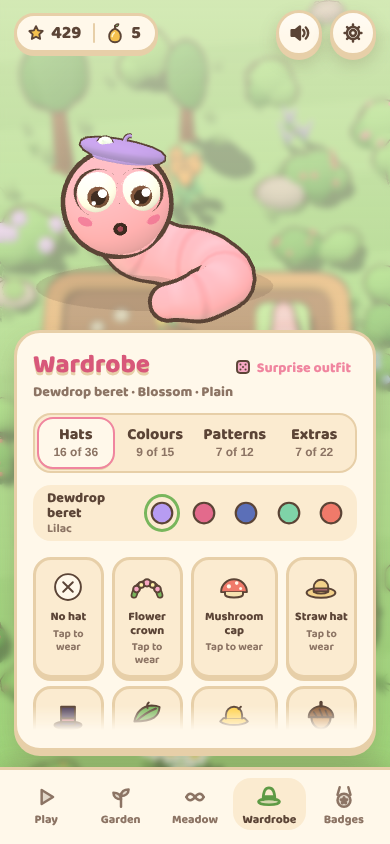
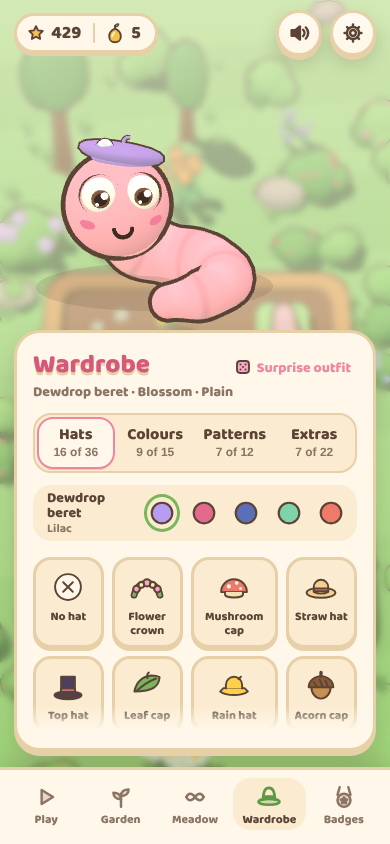
Wardrobe, hint dialog and settings tidy-up
- Wardrobe tiles drop the Tap to wear / Wearing line; locked items keep their hint
- The hint seeds explainer's Got it is the green primary button
- Settings drops the stats strip (the stars pill has its own dialog now)
- What's new gets its own settings card

Claude-Session: https://claude.ai/code/session_018b3cP1De1FMBieJja8GZr1

Changed region(s): [[0.0615, 0.7393, 0.9231, 0.8626], [0.1538, 0.154, 0.4308, 0.3081]]

diff --git a/src/shell.html b/src/shell.html
@@ -575,7 +575,7 @@ body.photo .wsay{display:none}
 /* -- Meadow: endless setup -- */
 .m-stats{display:grid;grid-template-columns:repeat(3,1fr);gap:8px}
 .m-stat{display:flex;flex-direction:column;align-items:center;gap:2px;padding:9px 4px 8px;border-radius:18px;background:var(--paper-2);border:2px solid var(--edge)}
-.m-stat .ic,.set-hero .ic{width:36px;height:36px;border-radius:14px;margin-bottom:2px}.m-stat .ic svg,.set-hero .ic svg{width:24px;height:24px}
+.m-stat .ic{width:36px;height:36px;border-radius:14px;margin-bottom:2px}.m-stat .ic svg{width:24px;height:24px}
 .m-stat b{font:800 21px/1.1 var(--fd)}
 .m-stat small{font-size:11px;font-weight:800;color:var(--ink-soft);text-transform:uppercase;letter-spacing:.04em}
 .m-diffs{display:grid;grid-template-columns:repeat(3,1fr);gap:8px}
@@ -667,9 +667,6 @@ body.photo .wsay{display:none}
 /* Settings: one scrolling page of cards, each with a sticker heading */
 .settings{max-height:min(760px,calc(100% - 24px));padding-bottom:6px}
 .set-scroll{flex:1;min-height:0;display:flex;flex-direction:column;gap:12px;margin:0 -16px;padding:2px 16px 14px}
-.set-hero{flex:none;display:grid;grid-template-columns:repeat(3,1fr);gap:8px}
-.set-hero>span{display:flex;flex-direction:column;align-items:center;gap:3px;padding:9px 4px 8px;border-radius:18px;background:var(--paper-2);border:2px solid var(--edge);font:800 21px/1 var(--fd);color:var(--ink)}
-.set-hero>span>small{font:800 11px/1 var(--fb);color:var(--ink-soft);text-transform:uppercase;letter-spacing:.04em}
 .set-card{flex:none;display:flex;flex-direction:column;gap:12px;padding:12px 14px 14px;border-radius:22px;background:var(--paper-2);border:3px solid var(--edge)}
 .set-h{display:flex;align-items:center;gap:10px;margin:0;font:800 18px/1.1 var(--fd);color:var(--ink)}
 .set-h [data-art]{width:38px;height:38px;border-radius:14px;place-items:center;background:var(--sticker);border:2px solid var(--sticker-edge);--art-halo:none;vertical-align:0}
@@ -946,7 +943,6 @@ body.big-text .hud-stats{zoom:.9}
 <div class="ov" id="setOv"><div role="dialog" aria-modal="true" aria-labelledby="setTitle" class="dialog card sheet settings">
   <div class="set-head"><h2 id="setTitle">Settings</h2><button class="icon-btn" id="setClose" aria-label="Close"><svg class="ui-ic" width="16" height="16" viewBox="0 0 24 24" fill="none" stroke="currentColor" stroke-width="3.2" stroke-linecap="round" stroke-linejoin="round" aria-hidden="true"><path d="M6.5 6.5l11 11M17.5 6.5l-11 11"/></svg></button></div>
   <div class="set-scroll fade-scroll" id="setScroll">
-    <div class="set-hero" id="setHero"></div>
     <section class="set-card" aria-labelledby="hSound">
       <h3 class="set-h" id="hSound"><span data-art="sound" data-size="26"></span>Sound</h3>
       <div class="set-row"><span>Music</span><button class="switch" id="setMusic" role="switch" aria-checked="true" aria-label="Music"><i></i></button></div>
@@ -992,12 +988,15 @@ body.big-text .hud-stats{zoom:.9}
       <textarea id="saveCode" rows="3" hidden spellcheck="false" autocomplete="off" aria-label="Save code" placeholder="Paste a save code here"></textarea>
       <div class="row"><button class="btn" id="saveCopy">Copy code</button><button class="btn" id="saveLoad">Restore</button></div>
     </section>
+    <section class="set-card" aria-labelledby="hNews">
+      <h3 class="set-h" id="hNews"><span data-art="news" data-size="26"></span>What's new</h3>
+      <details class="news-more"><summary>Every update<span class="chev" aria-hidden="true"><svg class="ui-ic" width="18" height="18" viewBox="0 0 24 24" fill="none" stroke="currentColor" stroke-width="3" stroke-linecap="round" stroke-linejoin="round" aria-hidden="true"><path d="M9.5 5.5L16 12l-6.5 6.5"/></svg></span></summary><div class="news-log" id="newsLog"></div></details>
+    </section>
     <section class="set-card" aria-labelledby="hAbout">
       <h3 class="set-h" id="hAbout"><span data-art="info" data-size="26"></span>About Squirm</h3>
       <p class="set-note">A cozy garden puzzle about a worm who just wants to get home. It plays offline and keeps your progress on this device.</p>
       <div class="set-row" id="statsRow" hidden><span>Share anonymous stats</span><button class="switch" id="setStats" role="switch" aria-checked="true" aria-label="Share anonymous stats"><i></i></button></div>
       <p class="set-note small" id="statsNote" hidden>Only simple counts, like how many gardens grew today, which patches got finished or left halfway and how often hints help, so we know what to make next. No cookies, nothing about you.</p>
-      <details class="news-more"><summary>What's new<span class="chev" aria-hidden="true"><svg class="ui-ic" width="18" height="18" viewBox="0 0 24 24" fill="none" stroke="currentColor" stroke-width="3" stroke-linecap="round" stroke-linejoin="round" aria-hidden="true"><path d="M9.5 5.5L16 12l-6.5 6.5"/></svg></span></summary><div class="news-log" id="newsLog"></div></details>
       <p class="set-note small">Made with three.js. Font: Baloo 2.</p>
       <p class="version">__BUILD__</p>
     </section>

diff --git a/src/game/play/hints.js b/src/game/play/hints.js
@@ -11,7 +11,7 @@ function renderSeeds(){ const b=$('hintBtn'), free=hintFree(), n=progress.seeds;
 // the pouch is empty: offer the daily (unless it's done or being played) and the meadow; this patch is saved meanwhile
 function openSeeds(){ const daily=!progress.daily.results[todayKey()]&&!(L&&L.daily);
   $('seedTitle').textContent='Out of hint seeds'; $('seedText').textContent='Garden hints use hint seeds. Grow more in today\'s patch or out in the meadow. This patch will wait for you.';
-  $('seedHow').hidden=true; $('seedKeep').textContent='Keep trying'; $('seedMeadow').hidden=false;
+  $('seedHow').hidden=true; $('seedKeep').textContent='Keep trying'; $('seedKeep').classList.remove('primary'); $('seedMeadow').hidden=false;
   $('seedDaily').hidden=!daily; $('seedDaily').innerHTML=`Today's patch ${seedChip(2)}`; $('seedMeadow').innerHTML=`A meadow patch ${seedChip(1)}`;
   $('seedMeadow').classList.toggle('primary',!daily); sfx('stuck'); show('seedOv'); pushLayer('seeds'); }
 // the explainer, from the seed pill on the home screen
@@ -20,7 +20,7 @@ function seedInfo(){ const n=progress.seeds, row=(t,v)=>`<li><span class="ic" ar
   $('seedHow').innerHTML=row("Today's patch",'+2')+row('A meadow patch','+1')+row('A hard meadow patch','+2')+row('First meadow patch of the day','+1 more')+row('Every 7 days in a row','+1 more')
     +`<li><span class="ic" aria-hidden="true">${art('bulb',18)}</span><span>Hints stay free in the first chapter and the meadow, and the same hint twice never costs a seed.</span></li>`
     +((progress.stats.seedsGot||0)<30?`<li><span class="ic" aria-hidden="true">${hatArt('idea',18)}</span><span>Grow 30 seeds to earn the Bright idea hat</span><b>${progress.stats.seedsGot||0} of 30</b></li>`:'');
-  $('seedHow').hidden=false; $('seedDaily').hidden=true; $('seedMeadow').hidden=true; $('seedKeep').textContent='Got it'; show('seedOv'); pushLayer('seeds'); }
+  $('seedHow').hidden=false; $('seedDaily').hidden=true; $('seedMeadow').hidden=true; $('seedKeep').textContent='Got it'; $('seedKeep').classList.add('primary'); show('seedOv'); pushLayer('seeds'); }
 $('homeSeeds').onclick=()=>{ ensureAudio(); seedInfo(); };
 const seedGo=f=>()=>{ hide('seedOv'); popLayer('seeds'); f(); };
 $('seedKeep').onclick=seedGo(()=>{}); $('seedDaily').onclick=seedGo(()=>$('dailyBtn').onclick()); $('seedMeadow').onclick=seedGo(()=>$('meadowBtn').onclick());

diff --git a/src/game/home/wardrobe.js b/src/game/home/wardrobe.js
@@ -1,7 +1,7 @@
 // ---------- wardrobe (Me tab) ----------
 // the worm on its stage shows the whole outfit; Hats / Colours / Patterns switch one grid of tiles
 let wardTab='hats';
-const tile=(key,val,on,ok,ico,name,note)=>`<button data-${key}="${val}" class="hat ${on?'on':''} ${ok?'':'locked'}" aria-pressed="${on}"><span class="hat-ico" aria-hidden="true">${ok?ico:art('lock',28)}</span><b>${name}</b><small>${ok?(on?'Wearing':'Tap to wear'):note}</small></button>`;
+const tile=(key,val,on,ok,ico,name,note)=>`<button data-${key}="${val}" class="hat ${on?'on':''} ${ok?'':'locked'}" aria-pressed="${on}"><span class="hat-ico" aria-hidden="true">${ok?ico:art('lock',28)}</span><b>${name}</b>${ok?'':`<small>${note}</small>`}</button>`;
 function outfitChanged(el){ bumpStat('outfits'); save(); if(hHead) homeReact('joy'); renderWardrobe(); const on=$('wardGrid').querySelector('.hat.on');
   if(on) settle(on); }
 function wearHat(id){ hatId=id; store.set('squirm-hat',hatId); dressHat(hHead); dressHat(segMeshes[0]); }

diff --git a/src/game/ui/settings.js b/src/game/ui/settings.js
@@ -2,7 +2,6 @@
 function renderSettings(){ renderNews(); $('setMusic').setAttribute('aria-checked',String(musicOn)); $('setMusicVol').value=Math.round(musicVol*100);
   $('volRow').hidden=!musicOn;
   // a little summary of the garden at the top
-  $('setHero').innerHTML=[[art('star',26),starTotal(),'stars'],[art('medal',26),Object.keys(progress.badges).length,'badges'],[art('sprout',26),LEVELS.filter((l,i)=>isCleared(i)).length,'patches']].map(([i,n,l])=>`<span><span class="ic" aria-hidden="true">${i}</span>${n}<small>${l}</small></span>`).join('');
   qa($('setGfx'),'button').forEach(b=>{ const on=b.dataset.g===gfx; b.classList.toggle('on',on); b.setAttribute('aria-checked',String(on)); });
     $('setSound').setAttribute('aria-checked',String(!muted)); applyTheme();
   qa($('setHaptic'),'button').forEach(b=>{ const on=+b.dataset.h===hapticLvl; b.classList.toggle('on',on); b.setAttribute('aria-checked',String(on)); });

diff --git a/CLAUDE.md b/CLAUDE.md
@@ -507,10 +507,10 @@ from a tab replaces that layer with `game`.
   pinching never zooms the page. `snapPhoto` draws a frame with a caption plaque (from `photoInfo`) and
   shares the PNG where the browser can share files, or downloads it. Keys: Space/Enter snap, P pose, Esc back.
 - **Settings and backups** (`ui/settings.js`): the home gear opens `setOv`, one scrolling page (`#setScroll`) of cards with
-  sticker headings (`renderSettings`): a stats strip, Sound (music, volume, effects, vibration), Look (theme
+  sticker headings (`renderSettings`): Sound (music, volume, effects, vibration), Look (theme
   with swatches; Graphics: Auto lets `watchSpeed` adapt, Saver pins the lowest quality, Sharp the highest;
-  `squirm-gfx`, device-specific), Reminders, Back up your garden (save code) and About (the anonymous stats
-  switch, What's new folded into a `<details>`, the build id). A save code is `SQUIRM1:` + base64 JSON of
+  `squirm-gfx`, device-specific), Comfort, Reminders, Back up your garden (save code), What's new (every
+  entry folded into a `<details>`) and About (the anonymous stats switch, the build id). A save code is `SQUIRM1:` + base64 JSON of
   every `squirm-` key except the throwaway ones in `SAVE_SKIP`; restoring replaces those keys and reloads.
   Starting over is only the secret reset: hold the home worm's head for 3 s, which clears every `squirm-` key.
 - **Comfort** (Settings, `core/base.js`): three device-specific switches. Calm motion (`calmMotion`, `squirm-calm`) sets
